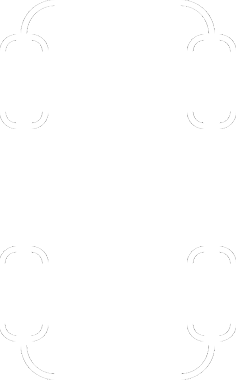
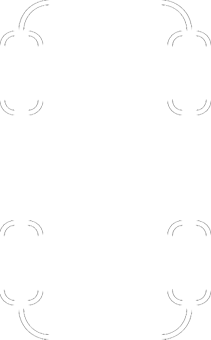
reworked Page 3 layout - labels are properly rendered using frame objects - re-sized tyre and fuel indicators - new "Pit limiter off" notification when on pitroad but pit limiter is not active - fixed abut that only page 1 can be used during the outlap

diff --git a/libs/iDDURender.py b/libs/iDDURender.py
@@ -145,6 +145,15 @@ class RenderScreen(RenderMain):
         self.frames[5].addLabel('FuelLastConsStr', LabeledValue2('Last', 447, 387, 135, '-', fontSmall, fontLarge, self.db, 0, 0), 5) # 481
         self.frames[5].addLabel('FuelAvgConsStr', LabeledValue2('Avg', 649, 387, 135, '-', fontSmall, fontLarge, self.db, 0, 0), 4) # 644
 
+        self.frames3 = list()
+
+        self.frames3.append(Frame('Distance to Pit', 54, 110, 317, 155, self.db, True))
+        self.frames3.append(Frame('Gear', 54, 280, 114, 82, self.db, True))
+        self.frames3.append(Frame('Speed', 188, 280, 183, 82, self.db, True))
+        self.frames3[0].addLabel('sToPitStallStr', SimpleValue(141, 83, 155, '-', fontGear, self.db, 0, 0, 1), 25)
+        self.frames3[0].addLabel('GearStr', SimpleValue(51, 275, 114, '-', fontLarge, self.db, 0, 7, 1), 26)
+        self.frames3[0].addLabel('SpeedStr', SimpleValue(193, 275, 173, '-', fontLarge, self.db, 0, 0, 1), 27)
+
         # misc
         self.done = False
         self.db.NDDUPage = 1
@@ -175,6 +184,13 @@ class RenderScreen(RenderMain):
                     self.db.NDDUPage = 1
 
         if ir.startup():
+            if ir['Gear'] > 0:
+                self.db.GearStr = str(int(ir['Gear']))
+            elif ir['Gear'] == 0:
+                self.db.GearStr = 'N'
+            elif ir['Gear'] < 0:
+                self.db.GearStr = 'R'
+
             if self.db.NDDUPage == 1: # Page 1
 
                 if self.db.init:
@@ -194,17 +210,6 @@ class RenderScreen(RenderMain):
                         RenderMain.screen.blit(debry, [0, 0])
                     elif self.db.FlagExceptionVal == 6:
                         RenderMain.screen.blit(warning, [0, 0])
-
-                # Radar Incicators
-                CarLeftRight = ir['CarLeftRight']
-                if np.isin(CarLeftRight, [2, 4, 5]):
-                    pygame.draw.polygon(RenderMain.screen, orange, ArrowLeft, 0)
-                    if CarLeftRight == 5:
-                        pygame.draw.polygon(RenderMain.screen, orange, ArrowLeft2, 0)
-                if np.isin(CarLeftRight, [3, 4, 6]):
-                    pygame.draw.polygon(RenderMain.screen, orange, ArrowRight, 0)
-                    if CarLeftRight == 6:
-                        pygame.draw.polygon(RenderMain.screen, orange, ArrowRight2, 0)
 
                 # DRS
                 if self.db.DRS:
@@ -239,12 +244,6 @@ class RenderScreen(RenderMain):
                 self.db.FuelAddStr = iDDUhelper.roundedStr1(max(0, self.db.VFuelAdd), 3)
 
                 self.db.SpeedStr = iDDUhelper.roundedStr0(max(0.0, ir['Speed']*3.6))
-                if ir['Gear'] > 0:
-                    self.db.GearStr = str(int(ir['Gear']))
-                elif ir['Gear'] == 0:
-                    self.db.GearStr = 'N'
-                elif ir['Gear'] < 0:
-                    self.db.GearStr = 'R'
 
                 if self.db.LapLimit:
                     self.db.LapStr = str(max(0, ir['Lap'])) + '/' + str(self.db.RaceLaps)
@@ -254,6 +253,7 @@ class RenderScreen(RenderMain):
                     self.db.LapStr = str(max(0, ir['Lap']))
                     self.db.ToGoStr = '0'
                 self.db.ClockStr = self.db.timeStr
+
                 if self.db.RX:
                     self.db.JokerStr = self.db.JokerStr
                 self.db.ElapsedStr = iDDUhelper.convertTimeHHMMSS(max(0, ir['SessionTime']))
@@ -303,6 +303,18 @@ class RenderScreen(RenderMain):
             # self.page3()
 
         if ir.startup() and ir['IsOnTrack']:
+
+            # Radar Incicators
+            CarLeftRight = ir['CarLeftRight']
+            if np.isin(CarLeftRight, [2, 4, 5]):
+                pygame.draw.polygon(RenderMain.screen, orange, ArrowLeft, 0)
+                if CarLeftRight == 5:
+                    pygame.draw.polygon(RenderMain.screen, orange, ArrowLeft2, 0)
+            if np.isin(CarLeftRight, [3, 4, 6]):
+                pygame.draw.polygon(RenderMain.screen, orange, ArrowRight, 0)
+                if CarLeftRight == 6:
+                    pygame.draw.polygon(RenderMain.screen, orange, ArrowRight2, 0)
+
             EngineWarnings = ir['EngineWarnings']
             # warning and alarm messages
             if EngineWarnings & 0x10:
@@ -353,6 +365,9 @@ class RenderScreen(RenderMain):
 
                     self.changeLabel(self.db.car.dcList[self.db.dcChangedItems[0]][0], valueStr)
 
+            if self.db.OnPitRoad and not self.db.EngineWarnings & 0x10:
+                    self.warningLabel('PIT LIMITER OFF', red, white)
+
         pygame.display.flip()
         self.db.tExecuteRender = (time.perf_counter() - t) * 1000
         clocker.tick(30)
@@ -378,66 +393,78 @@ class RenderScreen(RenderMain):
         # 'BTyreChangeCompleted': [False, False, False, False]
 
         RenderMain.screen.fill(self.db.backgroundColour)
-        self.db.SpeedStr = iDDUhelper.roundedStr0(max(0.0, ir['Speed'] * 3.6))
-        LabelSpeed = fontGear.render(self.db.SpeedStr, True, self.db.textColour)
-        if ir['Gear'] > 0:
-            self.db.GearStr = str(int(ir['Gear']))
-        elif ir['Gear'] == 0:
-            self.db.GearStr = 'N'
-        elif ir['Gear'] < 0:
-            self.db.GearStr = 'R'
-        LabelGear = fontGear.render(self.db.GearStr, True, self.db.textColour)
-        LabelsToPitStall = fontGear.render(iDDUhelper.roundedStr0(self.db.sToPitStall), True, self.db.textColour)
+        if not self.db.EngineWarnings & 0x10:
+            self.warningLabel('PIT LIMITER OFF', red, white)
+        # self.db.SpeedStr = iDDUhelper.roundedStr0(max(0.0, ir['Speed'] * 3.6))
+        self.db.SpeedStr = iDDUhelper.roundedStr1(max(0.0, ir['Speed'] * 3.6), 3)
+        # LabelSpeed = fontLarge.render(self.db.SpeedStr, True, self.db.textColour)
+        # if ir['Gear'] > 0:
+        #     self.db.GearStr = str(int(ir['Gear']))
+        # elif ir['Gear'] == 0:
+        #     self.db.GearStr = 'N'
+        # elif ir['Gear'] < 0:
+        #     self.db.GearStr = 'R'
+        # self.db.GearStr = 'R'
+        # LabelGear = fontLarge.render(self.db.GearStr, True, self.db.textColour)
+        self.db.sToPitStallStr = iDDUhelper.roundedStr0(self.db.sToPitStall)
+        # LabelsToPitStall = fontGear.render(iDDUhelper.roundedStr0(328), True, self.db.textColour)
 
-        RenderMain.screen.blit(LabelsToPitStall, (100, 47))
-        RenderMain.screen.blit(LabelSpeed, (100, 247))
-        RenderMain.screen.blit(LabelGear, (200, 247))
+        # RenderMain.screen.blit(LabelsToPitStall, (100, 47))
+        # RenderMain.screen.blit(LabelSpeed, (100, 247))
+        # RenderMain.screen.blit(LabelGear, (200, 247))
+
+        for i in range(0, len(self.frames3)):
+            self.frames3[i].setTextColour(self.db.textColour)
+            self.frames3[i].drawFrame()
 
         # tyres
         if self.db.BTyreChangeCompleted[0]:
-            pygame.draw.rect(RenderMain.screen, green, [419, 90, 38, 83], 0)
+            pygame.draw.rect(RenderMain.screen, green, [429, 155, 35, 76], 0)
         elif self.db.BTyreChangeRequest[0]:
-            pygame.draw.rect(RenderMain.screen, orange, [419, 90, 38, 83], 0)
+            pygame.draw.rect(RenderMain.screen, orange, [429, 155, 35, 76], 0)
 
         if self.db.BTyreChangeCompleted[1]:
-            pygame.draw.rect(RenderMain.screen, green, [607, 90, 38, 83], 0)
+            pygame.draw.rect(RenderMain.screen, green, [597, 155, 35, 76], 0)
         elif self.db.BTyreChangeRequest[1]:
-            pygame.draw.rect(RenderMain.screen, orange, [607, 90, 38, 83], 0)
+            pygame.draw.rect(RenderMain.screen, orange, [597, 155, 35, 76], 0)
 
         if self.db.BTyreChangeCompleted[2]:
-            pygame.draw.rect(RenderMain.screen, green, [419, 302, 38, 84], 0)
+            pygame.draw.rect(RenderMain.screen, green, [429, 345, 35, 76], 0)
         elif self.db.BTyreChangeRequest[2]:
-            pygame.draw.rect(RenderMain.screen, orange, [419, 302, 38, 84], 0)
+            pygame.draw.rect(RenderMain.screen, orange, [429, 345, 35, 76], 0)
 
         if self.db.BTyreChangeCompleted[3]:
-            pygame.draw.rect(RenderMain.screen, green, [607, 302, 38, 84], 0)
+            pygame.draw.rect(RenderMain.screen, green, [597, 345, 35, 76], 0)
         elif self.db.BTyreChangeRequest[3]:
-            pygame.draw.rect(RenderMain.screen, orange, [607, 302, 38, 84], 0)
+            pygame.draw.rect(RenderMain.screen, orange, [597, 345, 35, 76], 0)
 
-        RenderMain.screen.blit(car, [414, 50])
+        RenderMain.screen.blit(car, [425, 120])
 
         # fuel
         if self.db.BFuelCompleted:
-            RenderMain.screen.blit(gas_green, [700, 50])
+            RenderMain.screen.blit(gas_green, [696, 120])
         elif self.db.BFuelRequest:
-            RenderMain.screen.blit(gas_orange, [700, 50])
+            RenderMain.screen.blit(gas_orange, [696, 120])
         else:
-            RenderMain.screen.blit(gas_white, [700, 50])
+            RenderMain.screen.blit(gas_white, [696, 120])
 
         if not self.db.PitstopActive:
-            FuelStr = iDDUhelper.roundedStr1(self.db.PitSvFuel, 3)
+            # FuelStr = iDDUhelper.roundedStr1(self.db.PitSvFuel, 3)
+            FuelStr = iDDUhelper.roundedStr1(26.34, 3)
             FueledPct = 0
         else:
             FueledPct = (self.db.FuelLevel - self.db.VFuelPitStopStart) / self.db.PitSvFuel
-            FuelStr = iDDUhelper.roundedStr1(self.db.PitSvFuel - (self.db.FuelLevel - self.db.VFuelPitStopStart), 3)
+            # FuelStr = iDDUhelper.roundedStr1(self.db.PitSvFuel - (self.db.FuelLevel - self.db.VFuelPitStopStart), 3)
+            FuelStr = iDDUhelper.roundedStr1(26.34, 3)
 
-        LabelFuel = fontLarge.render(FuelStr, True, self.db.textColour)
-        RenderMain.screen.blit(LabelFuel, (700, 150))
+        LabelFuel = fontMedium.render(FuelStr, True, self.db.textColour)
+        LabelSize = fontMedium.size(FuelStr)
+        RenderMain.screen.blit(LabelFuel, (720-LabelSize[0]/2, 181))
 
         # pygame.draw.rect(RenderMain.screen, green, [700, 250, 50, 180], 0)
-        pygame.draw.rect(RenderMain.screen, green, [700, 250 + int(180*(1-FueledPct)), 50, int(180*FueledPct)], 0)
+        pygame.draw.rect(RenderMain.screen, green, [693, 241 + int(216*(1-FueledPct)), 50, int(216*FueledPct)], 0)
 
-        pygame.draw.lines(RenderMain.screen, white, True, [[700, 250],  [750, 250],  [750, 430],  [700, 430]], 5)
+        pygame.draw.lines(RenderMain.screen, white, True, [[693, 241],  [743, 241],  [743, 457],  [693, 457]], 5)
 
         # self.warningLabelwarningLabel('PIT LIMITER', blue, white)
 

diff --git a/libs/iDDUcalc.py b/libs/iDDUcalc.py
@@ -277,6 +277,7 @@ class IDDUCalc(threading.Thread):
                             self.db.BPitstopCompleted = False
                             self.db.BTyreChangeRequest = [False, False, False, False]
                             self.db.BTyreChangeCompleted =  [False, False, False, False]
+                            self.db.BWasOnPitRoad  = False
 
                         # check if new lap
                         if self.db.Lap > self.db.oldLap and self.db.SessionState == 4 and self.db.SessionTime > self.db.newLapTime + 10:
@@ -396,6 +397,7 @@ class IDDUCalc(threading.Thread):
                             print(self.db.timeStr + ':\tGetting out of car')
                             print(self.db.timeStr + ': Run: ' + str(self.db.Run))
                             print(self.db.timeStr + ':\tFuelAvgConsumption: ' + iDDUhelper.roundedStr2(self.db.FuelAvgConsumption))
+                            self.db.NDDUPage = 1
                             self.db.WasOnTrack = False
                             self.db.init = True
                         # do if car is not on track but don't do if car is on track ------------------------------------------------
@@ -862,8 +864,8 @@ class IDDUCalc(threading.Thread):
         self.db.StintLap = self.db.StintLap + 1
         self.db.oldLap = self.db.Lap
         self.db.LapsToGo = self.db.RaceLaps - self.db.Lap + 1
-        if not self.db.OnPitRoad:
-            self.db.BWasOnPitRoad = False
+        # if not self.db.OnPitRoad:
+        #     self.db.BWasOnPitRoad = False
 
         self.db.weatherStr = 'TAir: ' + iDDUhelper.roundedStr0(self.db.AirTemp) + '°C     TTrack: ' + iDDUhelper.roundedStr0(self.db.TrackTemp) + '°C     pAir: ' + iDDUhelper.roundedStr2(
             self.db.AirPressure*0.0338639*1.02) + ' bar    rHum: ' + iDDUhelper.roundedStr0(self.db.RelativeHumidity * 100) + ' %     rhoAir: ' + iDDUhelper.roundedStr2(self.db.AirDensity) + ' kg/m³     vWind: '

diff --git a/iDDU.py b/iDDU.py
@@ -126,7 +126,8 @@ iRData = {'LapBestLapTime': 0,
           'PlayerCarPitSvStatus': None,
           'PitRepairLeft': None,
           'PitOptRepairLeft': None,
-          'PitstopActive': None
+          'PitstopActive': None,
+          'CarIdxEstTime' : []
           }
 
 # calculated data
@@ -242,6 +243,9 @@ calcData = {'startUp': False,
                 True,  # 22 Gear
                 True,  # 23 Speed
                 True,  # 24 Position
+                True,  # 25 Distance to pit stall
+                True,  # 26 speed in pit lane
+                True,  # 27 Gear in pit lane
             ],
             'P2P': False,
             'DRS': False,
@@ -322,6 +326,7 @@ calcData = {'startUp': False,
             'BEnteringPits': False,
             'BPitCommandControl': False,
             'sToPitStall': 0,
+            'sToPitStallStr': '463',
             'PitSvFlagsEntry': 0,
             'BFuelRequest': False,
             'BFuelCompleted': False,
